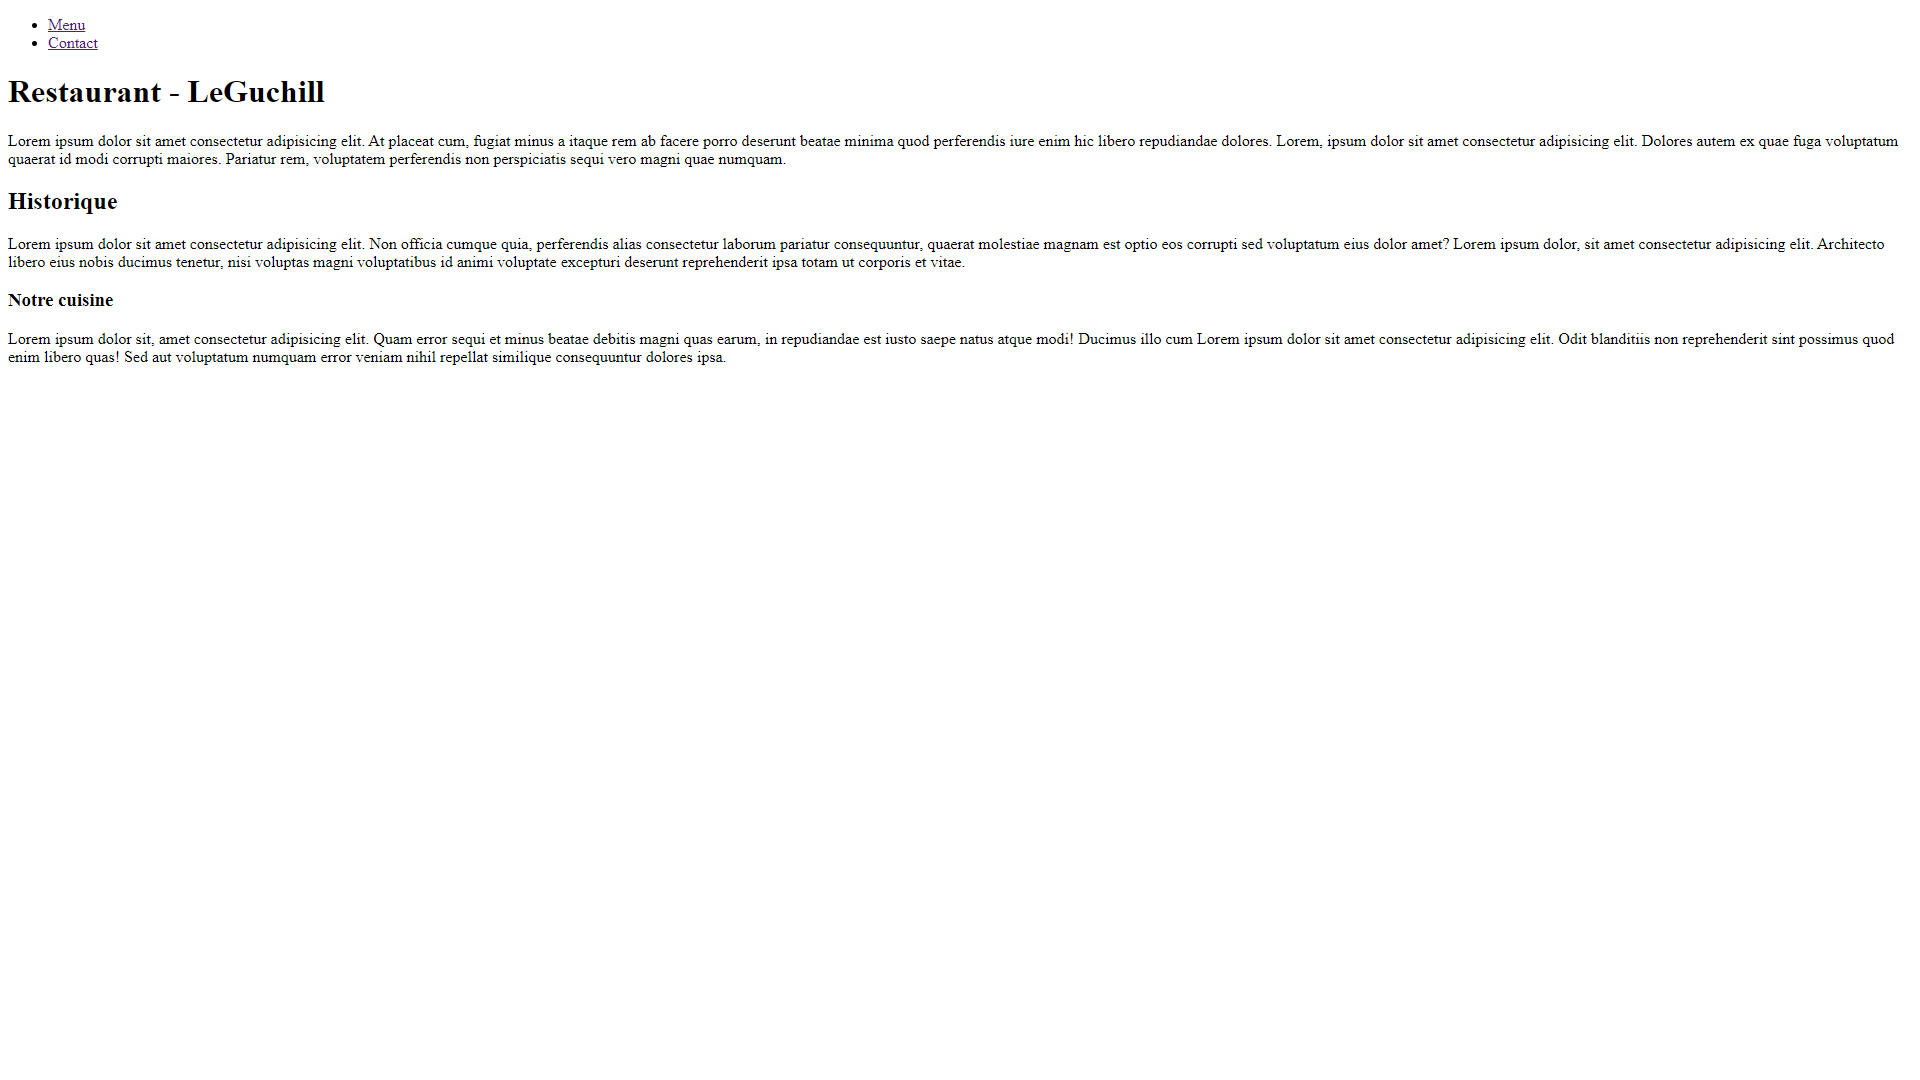
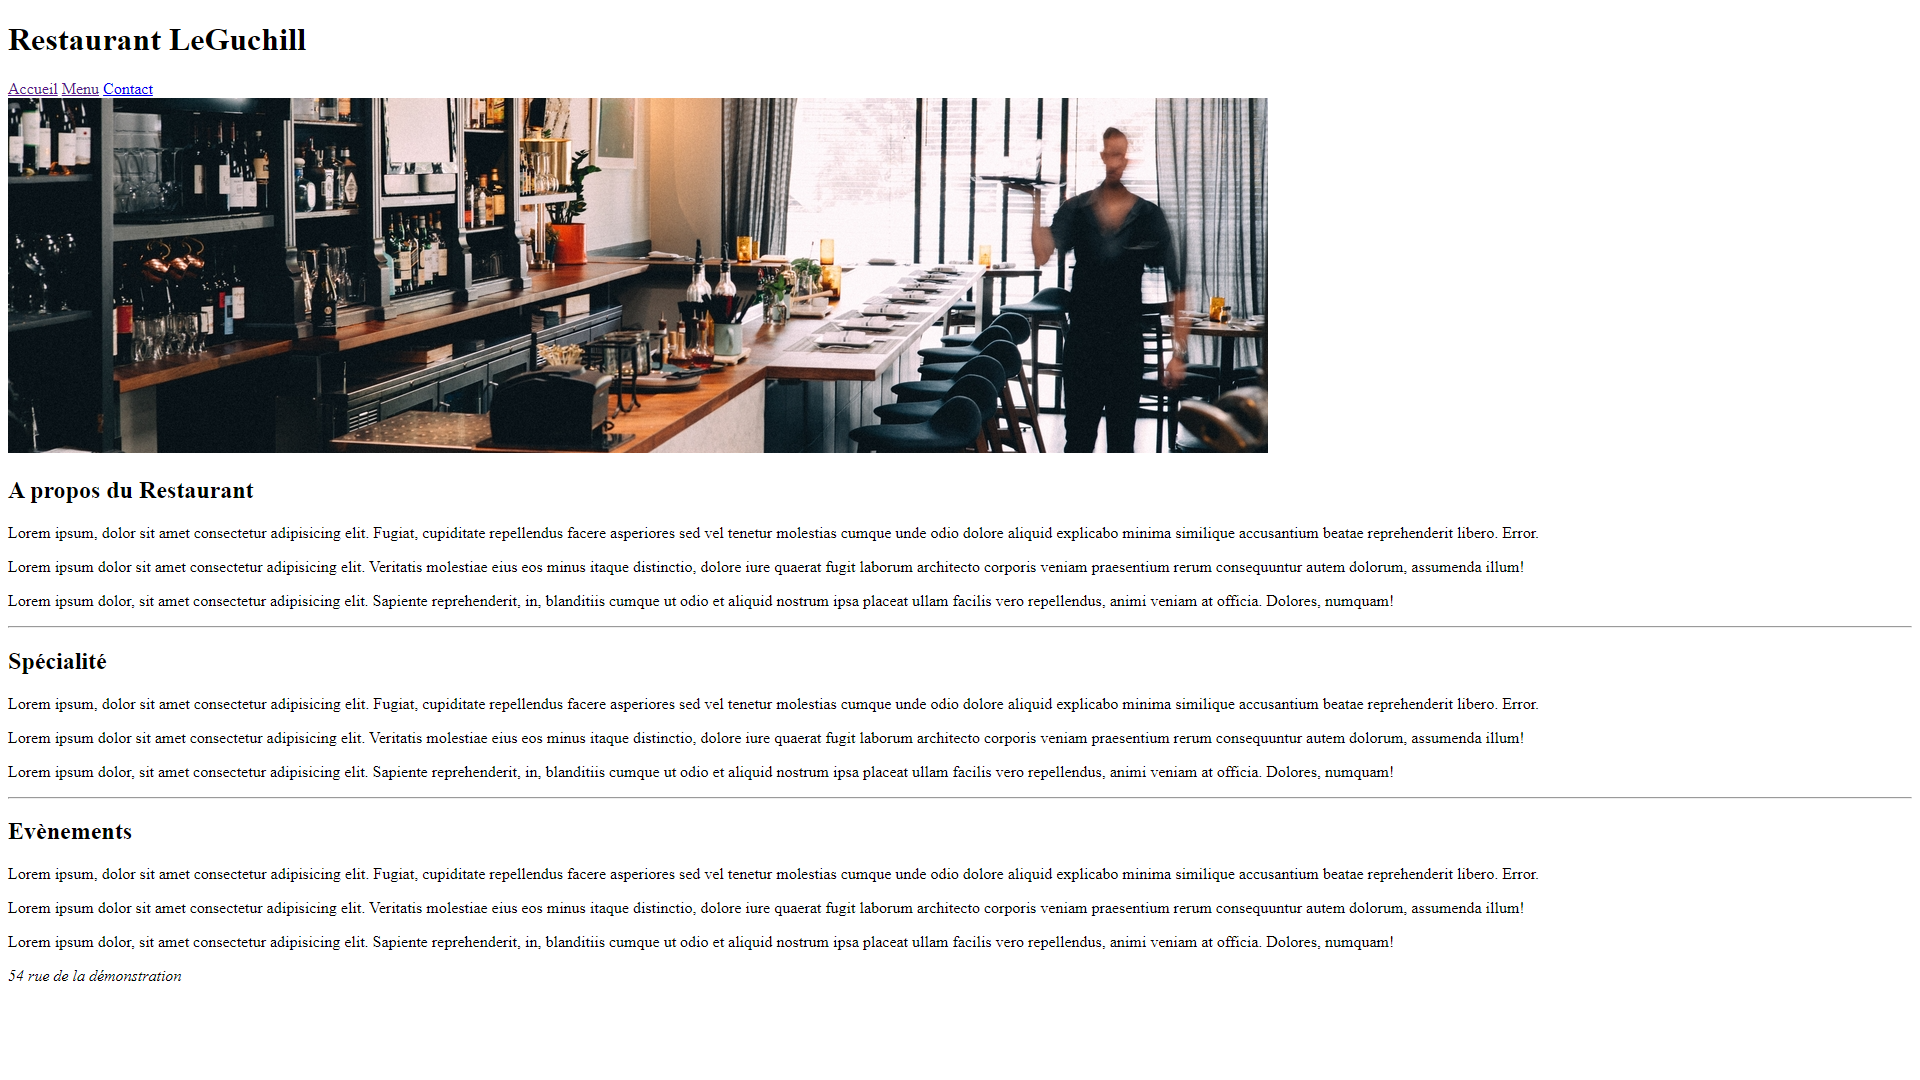
Add files via upload

diff --git a/Site restaurant - LeGuchill(Grafikart)/index.html b/Site restaurant - LeGuchill(Grafikart)/index.html
@@ -2,34 +2,41 @@
 <html lang="fr">
 <head>
     <meta charset="UTF-8">
-    <meta name="description" content="Le restaurant ......">
-    <title>Restaurant - LeGuchill</title>
+    <meta name="viewport" content="width=device-width, initial-scale=1.0">
+    <title>Restaurant LeGuchill</title>
+    <meta name="description" content="Restaurant Gastronomique à de pas de là tour Eiffel">
 </head>
-
 <body>
-    <nav>
-        <ul>
-            <li> <a href="menu.html">Menu</a></li>
-            <li> <a href="contact.html">Contact</a></li>
-        </ul>
-    </nav>
+    <header>
+        <h1>Restaurant LeGuchill</h1>
+        <nav>
+            <a href="index.html" title="Accueil">Accueil</a>
+            <a href="menu.html" title="Voir le Menu">Menu</a>
+            <a href="contact.html" title="Nous contacter">Contact</a>
+        </nav>
+        <img src="Images du site/Bannière restaurant LeGuchill accueil.jpg" alt="Bannière Restaurant LeGuchill" width="1260" height="355">
+        <article>
+            <h2>A propos du Restaurant</h2>
+            <p>Lorem ipsum, dolor sit amet consectetur adipisicing elit. Fugiat, cupiditate repellendus facere asperiores sed vel tenetur molestias cumque unde odio dolore aliquid explicabo minima similique accusantium beatae reprehenderit libero. Error.</p>
+            <p>Lorem ipsum dolor sit amet consectetur adipisicing elit. Veritatis molestiae eius eos minus itaque distinctio, dolore iure quaerat fugit laborum architecto corporis veniam praesentium rerum consequuntur autem dolorum, assumenda illum!</p>
+            <p>Lorem ipsum dolor, sit amet consectetur adipisicing elit. Sapiente reprehenderit, in, blanditiis cumque ut odio et aliquid nostrum ipsa placeat ullam facilis vero repellendus, animi veniam at officia. Dolores, numquam!</p>
+        <hr>
+            <h2> Spécialité</h2>
+            <p>Lorem ipsum, dolor sit amet consectetur adipisicing elit. Fugiat, cupiditate repellendus facere asperiores sed vel tenetur molestias cumque unde odio dolore aliquid explicabo minima similique accusantium beatae reprehenderit libero. Error.</p>
+            <p>Lorem ipsum dolor sit amet consectetur adipisicing elit. Veritatis molestiae eius eos minus itaque distinctio, dolore iure quaerat fugit laborum architecto corporis veniam praesentium rerum consequuntur autem dolorum, assumenda illum!</p>
+            <p>Lorem ipsum dolor, sit amet consectetur adipisicing elit. Sapiente reprehenderit, in, blanditiis cumque ut odio et aliquid nostrum ipsa placeat ullam facilis vero repellendus, animi veniam at officia. Dolores, numquam!</p>
+        <hr>
+            <h2>Evènements</h2>
+            <p>Lorem ipsum, dolor sit amet consectetur adipisicing elit. Fugiat, cupiditate repellendus facere asperiores sed vel tenetur molestias cumque unde odio dolore aliquid explicabo minima similique accusantium beatae reprehenderit libero. Error.</p>
+            <p>Lorem ipsum dolor sit amet consectetur adipisicing elit. Veritatis molestiae eius eos minus itaque distinctio, dolore iure quaerat fugit laborum architecto corporis veniam praesentium rerum consequuntur autem dolorum, assumenda illum!</p>
+            <p>Lorem ipsum dolor, sit amet consectetur adipisicing elit. Sapiente reprehenderit, in, blanditiis cumque ut odio et aliquid nostrum ipsa placeat ullam facilis vero repellendus, animi veniam at officia. Dolores, numquam!</p>
+        
+        </article>
 
-    <h1> Restaurant - LeGuchill</h1>
-        <p>Lorem ipsum dolor sit amet consectetur adipisicing elit. At placeat cum, fugiat minus a itaque rem ab facere porro deserunt beatae minima quod perferendis iure enim hic libero repudiandae dolores.
-           Lorem, ipsum dolor sit amet consectetur adipisicing elit. Dolores autem ex quae fuga voluptatum quaerat id modi corrupti maiores. Pariatur rem, voluptatem perferendis non perspiciatis sequi vero magni quae numquam.
-        </p>
+    </header>
 
-        <h2>Historique</h2>
-            <p> Lorem ipsum dolor sit amet consectetur adipisicing elit. Non officia cumque quia, perferendis alias consectetur laborum pariatur consequuntur, quaerat molestiae magnam est optio eos corrupti sed voluptatum eius dolor amet?
-                Lorem ipsum dolor, sit amet consectetur adipisicing elit. Architecto libero eius nobis ducimus tenetur, nisi voluptas magni voluptatibus id animi voluptate excepturi deserunt reprehenderit ipsa totam ut corporis et vitae.
-            </p>
-
-        <h3>Notre cuisine</h3>
-            <p> Lorem ipsum dolor sit, amet consectetur adipisicing elit. Quam error sequi et minus beatae debitis magni quas earum, in repudiandae est iusto saepe natus atque modi! Ducimus illo cum
-                Lorem ipsum dolor sit amet consectetur adipisicing elit. Odit blanditiis non reprehenderit sint possimus quod enim libero quas! Sed aut voluptatum numquam error veniam nihil repellat similique consequuntur dolores ipsa.
-            </p>
-
-            
-    
+    <footer>
+        <address> 54 rue de la démonstration</address>
+    </footer>
 </body>
 </html>

diff --git a/Site restaurant - LeGuchill(Grafikart)/menu.html b/Site restaurant - LeGuchill(Grafikart)/menu.html
@@ -2,28 +2,111 @@
 <html lang="fr">
 <head>
     <meta charset="UTF-8">
-    <meta http-equiv="X-UA-Compatible" content="IE=edge">
     <meta name="viewport" content="width=device-width, initial-scale=1.0">
-    <title>Menu </title>
+    <title>Menu Restaurant LeGuchill</title>
+    <meta name="description" content="Restaurant Gastronomique à de pas de là tour Eiffel">
 </head>
 <body>
-    <h1> Le menu</h1>
-    <h2> Les Entrées</h2>
-        <ul>
-            <li>Entrée 1</li>
-            <li>Entrée 2</li>
-            <li>Entrée 3</li>
+    <header>
+        <h1>Le menu du restaurant LeGuchill</h1>
+        <nav>
+            <a href="index.html" title="Accueil">Accueil</a>
+            <a href="menu.html" title="Voir le Menu">Menu</a>
+            <a href="contact.html" title="Nous contacter">Contact</a>
+        </nav>
+        <img src="Images du site/Bannière Restaurant LeGuchill menu.jpg" alt="Bannière Restaurant LeGuchill" width="1256" height="475">
         
-        </ul>
-    <h2> Plats chauds</h2>
-        <ul>
-            <li>Plats 1</li>
-            <li>Plats 2</li>
-            <li>Plats 3</li>
-        </ul>
+    </header>
 
-            <a href="index.html">Revenir à l'accueil</a>
+        <article>
+            <table>
+                <tr>
+                    <td colspan="2">
+                        <h2>Plats principal</h2>
+                    </td>
+                </tr>
+            <div>
+                <tr>
+                    <td>
+                        <strong> Burger à l'italienne</strong><br>
+                        Pain, Viande de Boeuf de Kobe, salade, tomate, fromage à l'italienne, sauce à l'italienne
+                    </td>
+                    <td> 25 €</td>
+                </tr>
+            </div>
 
-    
+            <div>
+                <tr>
+                    <td>
+                        <strong> Salade de Cesar</strong><br>
+                        Roquette, Mozzarela di buffala, tomates cerises, olives noires, fine tranche de jambon de Parmes, tranche de concombre, poivron, sauce piacevole
+                    </td>
+                    <td> 22 €</td>
+                </tr>
+            </div>
+
+            <div><tr>
+                    <td>
+                        <strong> La pizza delamama</strong><br>
+                        Sauche tomate, mozzarela, roquette, cheddar fondu, janbom de pays, olives noires, poivron
+                    </td>
+                    <td> 23 €</td>
+                </tr>
+            </div>
+
+            <div><tr>
+                    <td>
+                        <strong> Burger du chef</strong><br>
+                        Pain, Viande de Boeuf de Kobe, salade batavia, oignons fries, tranche de bacon, tomate, sauce du chef
+                    </td>
+                    <td> 27 €</td>
+                </tr>
+            </div>
+
+            <tr>
+                <td colspan="2">
+                    <h2>Dessert</h2>
+                </td>
+            </tr>
+        <div>
+            <tr>
+                <td>
+                    <strong> Panna cotta</strong><br>
+                </td>
+                <td> 8 €</td>
+            </tr>
+        </div>
+
+        <div>
+            <tr>
+                <td>
+                    <strong>Tiramisu</strong><br>
+                </td>
+                <td> 10 €</td>
+            </tr>
+        </div>
+
+        <div><tr>
+                <td>
+                    <strong>Granita</strong><br>
+                </td>
+                <td> 7 €</td>
+            </tr>
+        </div>
+
+        <div><tr>
+                <td>
+                    <strong>Café gourmand du chef</strong><br>
+                </td>
+                <td> 7 €</td>
+            </tr>
+        </div>
+
+            </table>
+        </article>
+    <hr>
+    <footer>
+        <address> 54 rue de la démonstration</address>
+    </footer>
 </body>
 </html>
